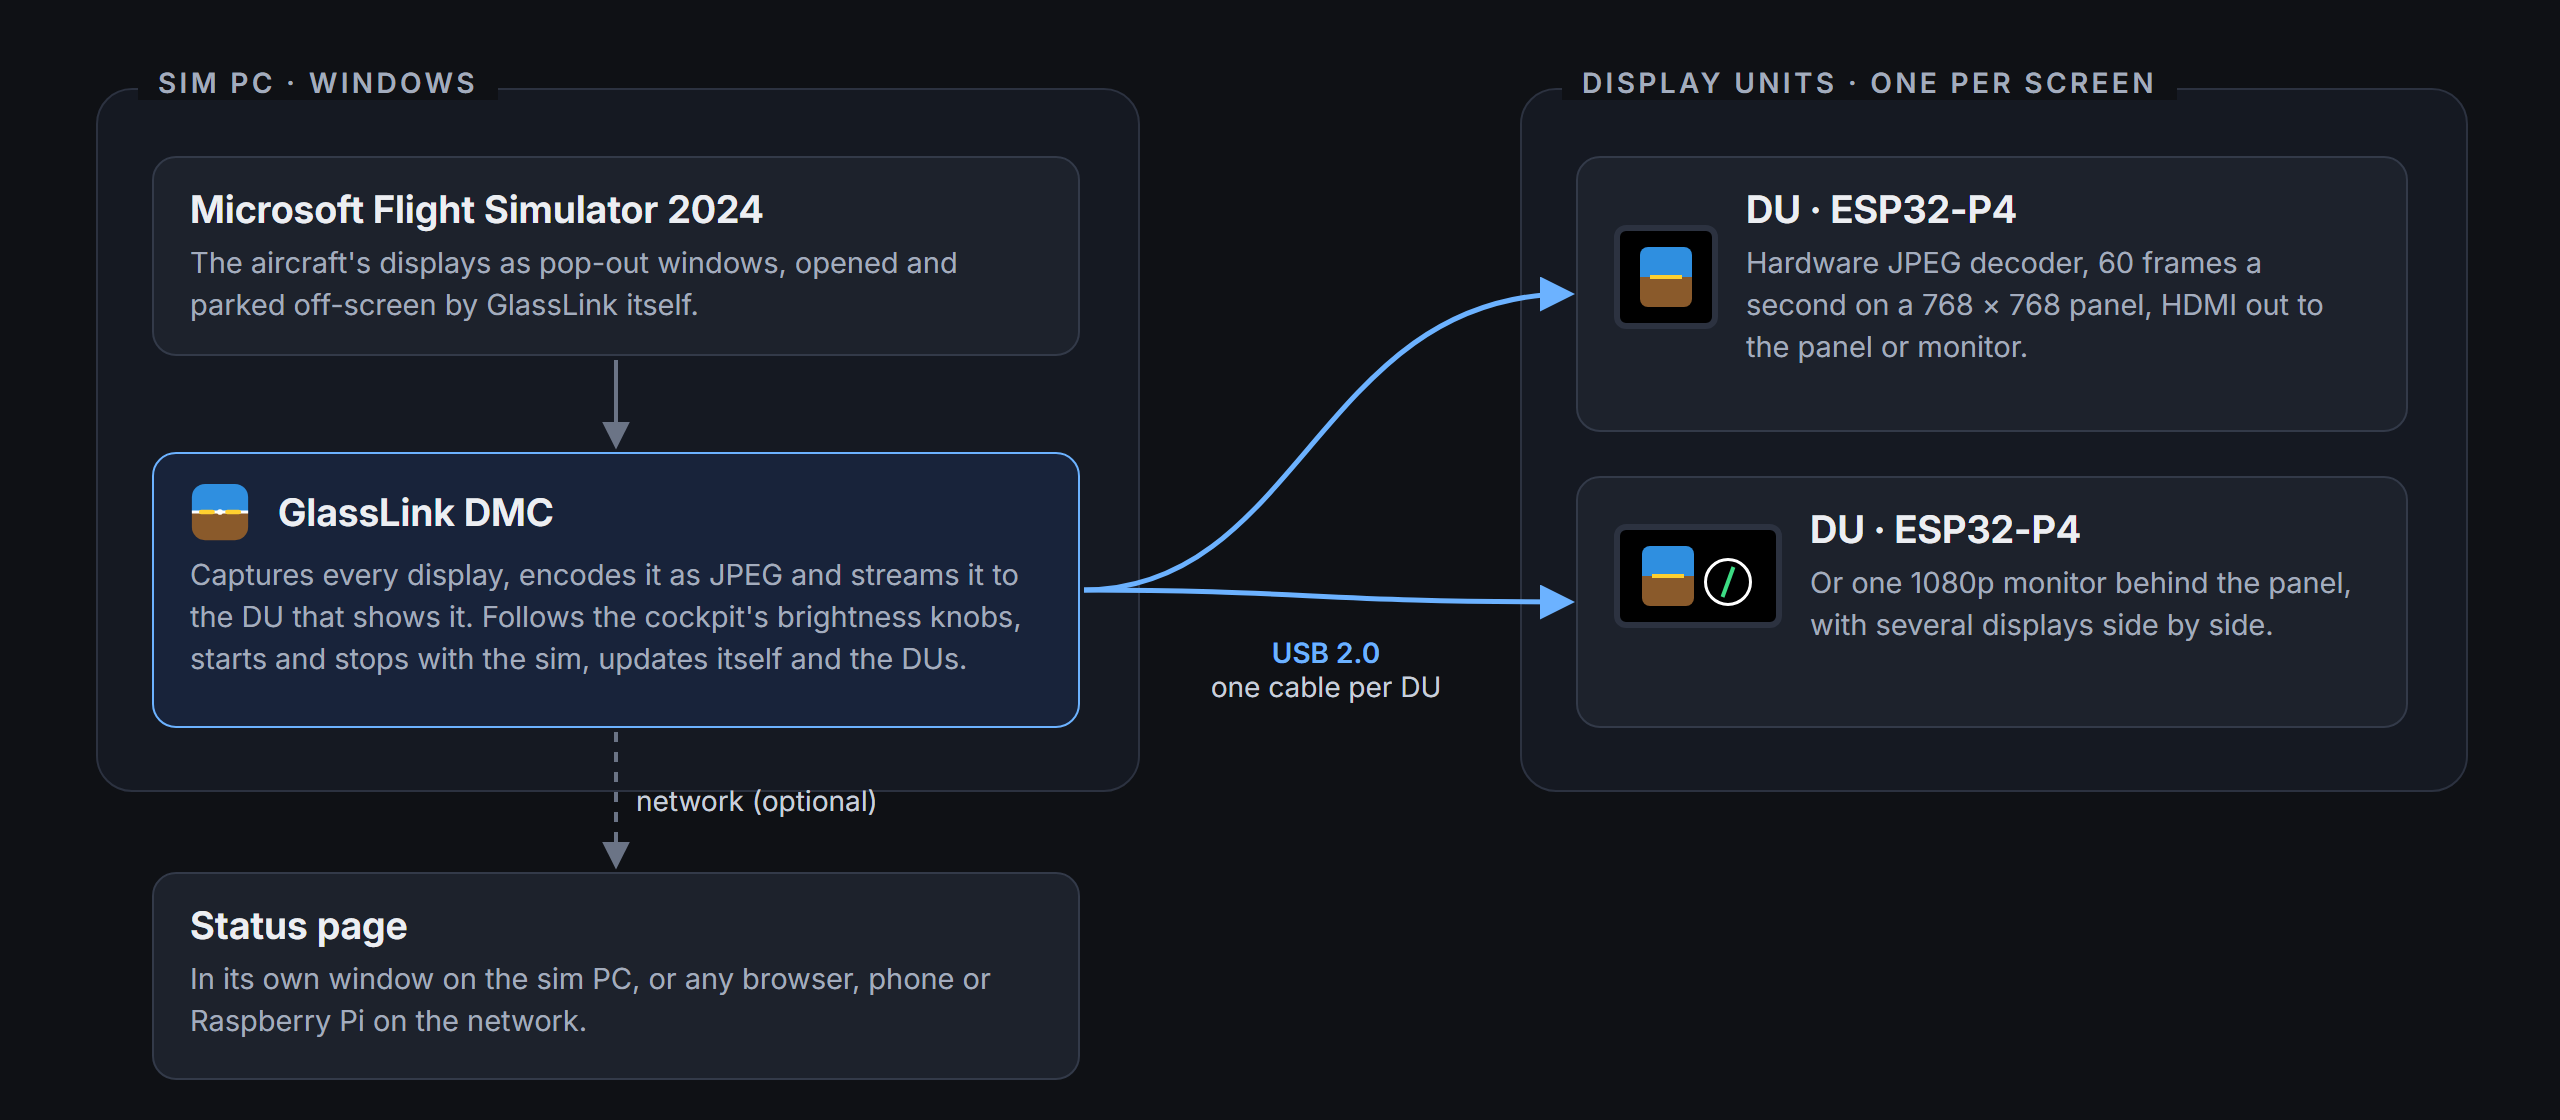
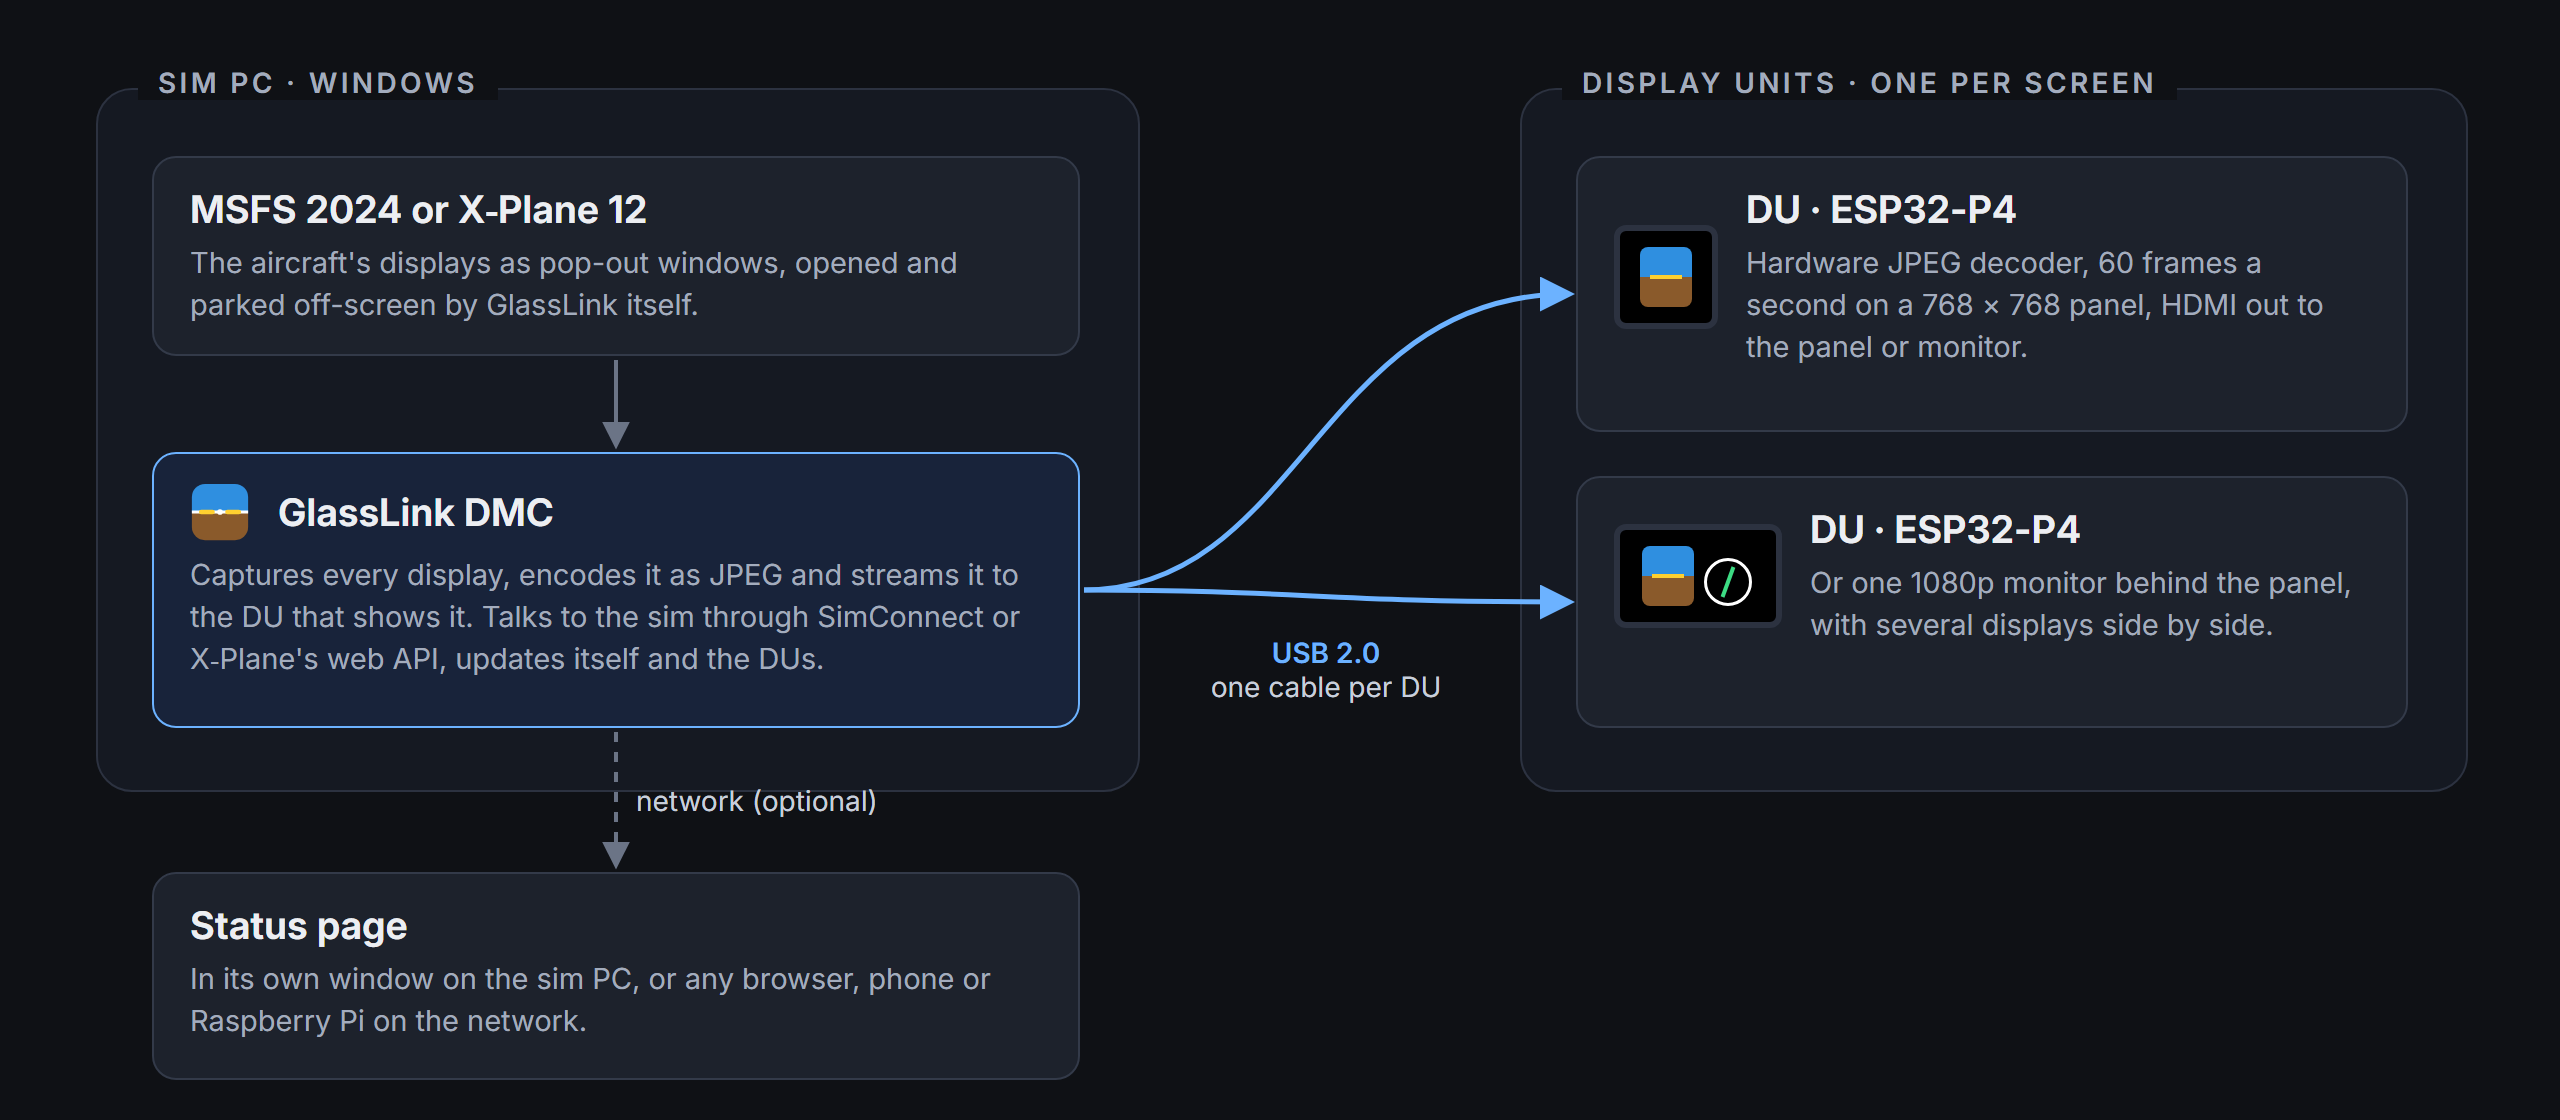
How-it-works diagram: MSFS 2024 or X-Plane 12
The sim box names both sims; the DMC box says it talks to the sim through SimConnect or X-Plane's web API instead of naming the brightness knobs and start-with-sim, which are MSFS-only.

Changed region(s): [[0.0625, 0.5312, 0.4062, 0.625], [0.0938, 0.1562, 0.3125, 0.2188]]

diff --git a/docs/images/src/how-it-works.html b/docs/images/src/how-it-works.html
@@ -37,7 +37,7 @@
 <!-- sim PC -->
 <div class="zone" style="left:48px; top:44px; width:520px; height:350px"><div class="label">SIM PC · WINDOWS</div></div>
 <div class="box" style="left:76px; top:78px; width:464px; height:100px">
-  <b>Microsoft Flight Simulator 2024</b>
+  <b>MSFS 2024 or X&#8209;Plane 12</b>
   <span>The aircraft's displays as pop-out windows, opened and parked off-screen by GlassLink itself.</span>
 </div>
 <div class="box accent" style="left:76px; top:226px; width:464px; height:138px">
@@ -45,8 +45,8 @@
     <svg width="30" height="30" viewBox="0 0 64 64" aria-hidden="true"><defs><clipPath id="l"><rect x="2" y="2" width="60" height="60" rx="14"/></clipPath></defs><g clip-path="url(#l)"><rect width="64" height="32" fill="#2f8fe0"/><rect y="32" width="64" height="32" fill="#8a5a2b"/><line x1="0" y1="32" x2="64" y2="32" stroke="#fff" stroke-width="3"/><line x1="12" y1="32" x2="24" y2="32" stroke="#ffd030" stroke-width="5" stroke-linecap="round"/><line x1="40" y1="32" x2="52" y2="32" stroke="#ffd030" stroke-width="5" stroke-linecap="round"/><circle cx="32" cy="32" r="3" fill="#fff"/></g></svg>
     <b style="margin:0">GlassLink DMC</b>
   </div>
-  <span>Captures every display, encodes it as JPEG and streams it to the DU that shows it. Follows the cockpit's
-    brightness knobs, starts and stops with the sim, updates itself and the DUs.</span>
+  <span>Captures every display, encodes it as JPEG and streams it to the DU that shows it. Talks to the sim
+    through SimConnect or X&#8209;Plane's web API, updates itself and the DUs.</span>
 </div>
 
 <!-- DUs -->
